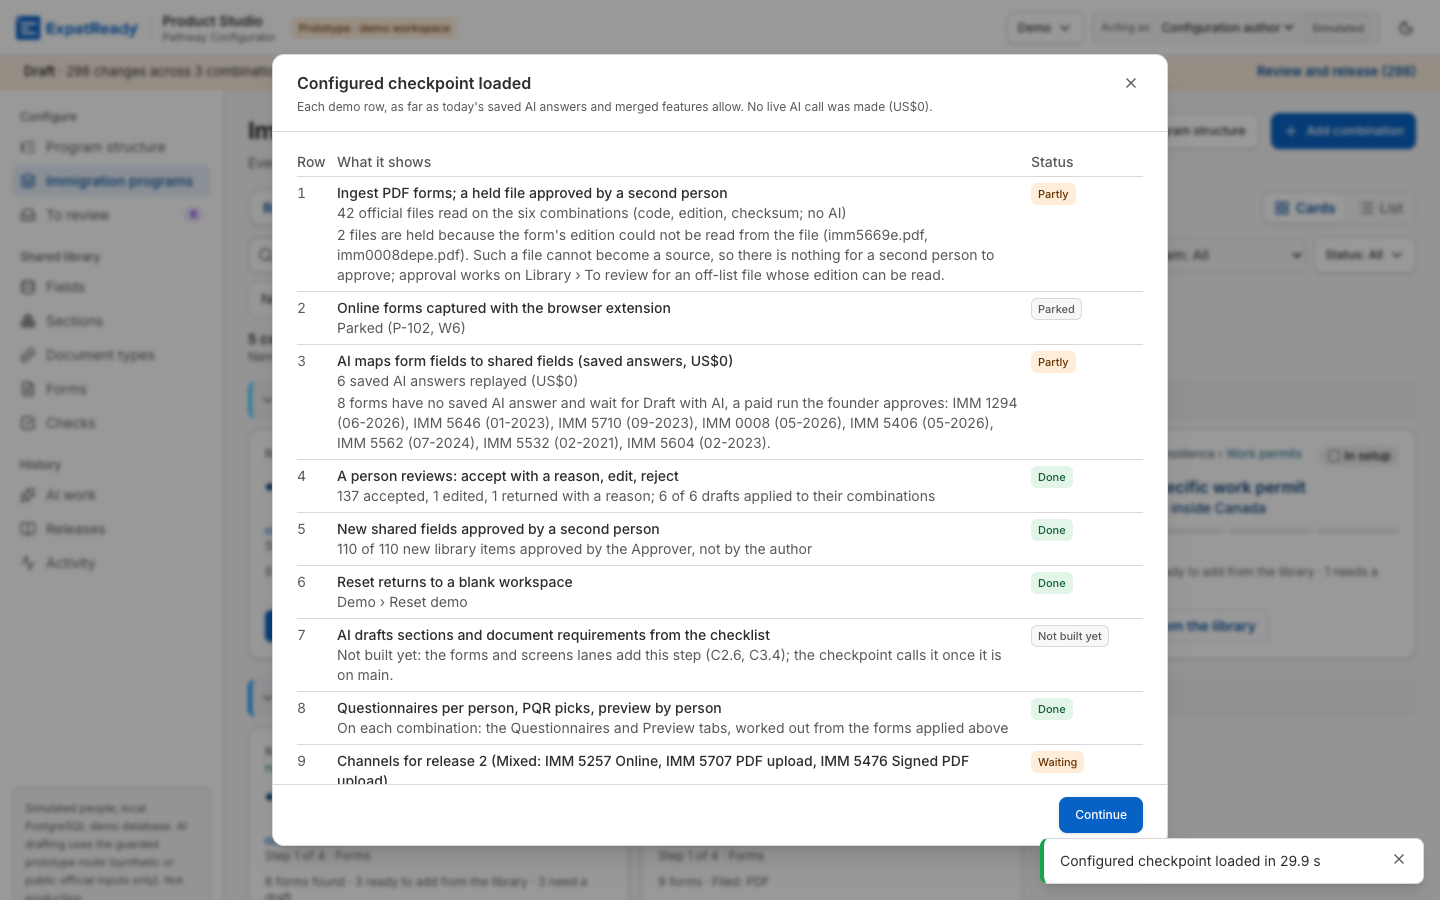
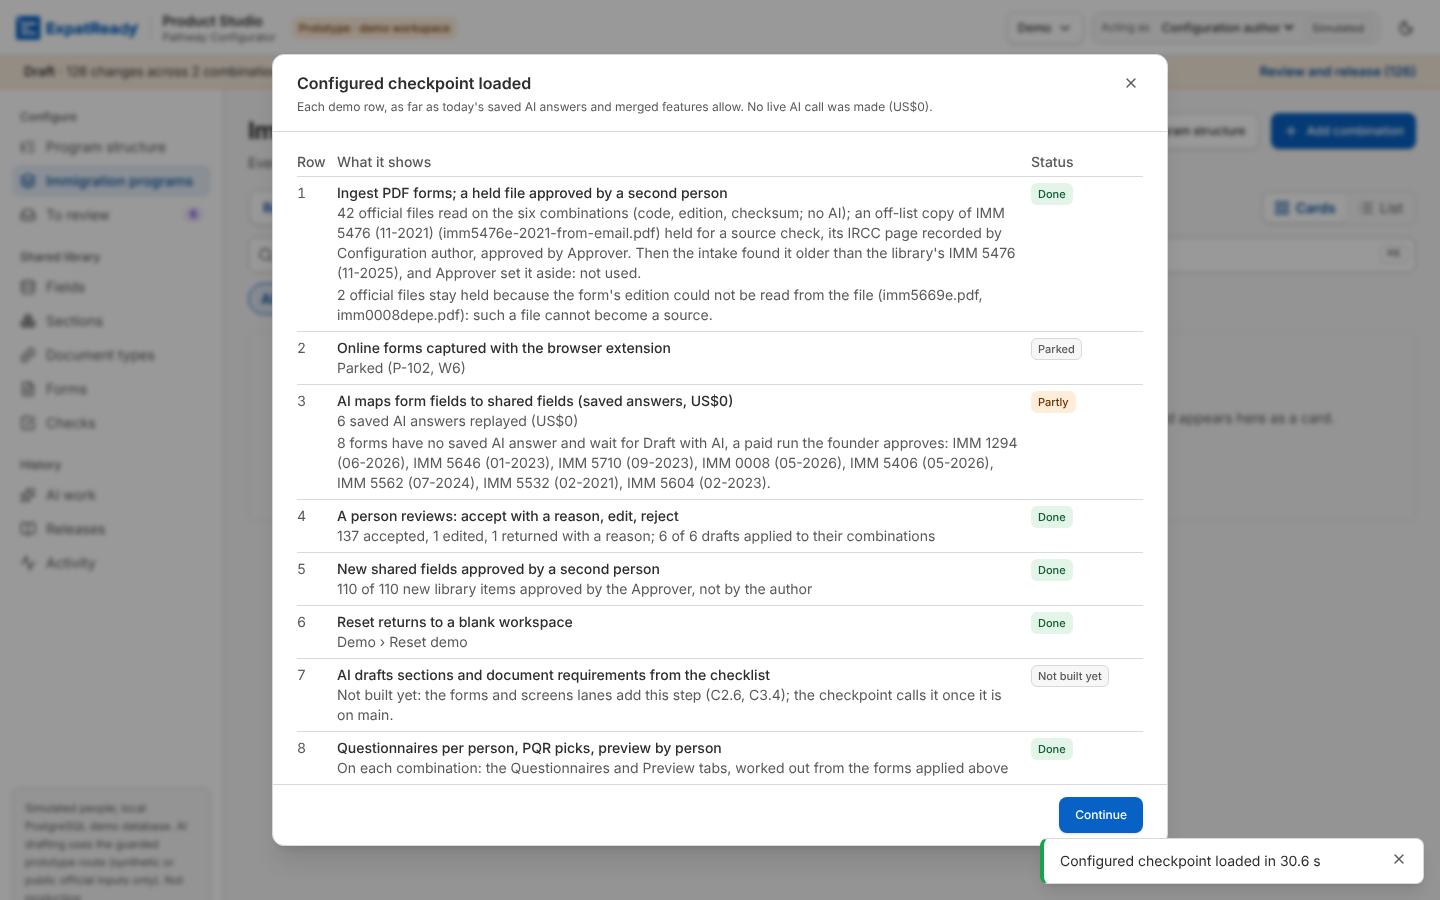
runtime F7: review Minors — the older 2021 copy is set aside by the Approver (nothing left on To review); m7 asserts the refusal's own title; row 1 screenshots re-shot
Claude-Session: https://claude.ai/code/session_01Ln6TiRsXsNGcEvBbFyHLf6

diff --git a/ai-workers/problem-1-pathway-setup-and-form-filling/prototype/studio/api/src/demo.ts b/ai-workers/problem-1-pathway-setup-and-form-filling/prototype/studio/api/src/demo.ts
@@ -244,7 +244,7 @@ export class Demo {
    *  Visitor visa (held for source verification), records the IRCC page it came from, and the approver, a second person,
    *  compares and approves it on the intake's own route (P-80). The library holds IMM 5476 (11-2025), not 11-2021, so the
    *  copy is not a duplicate (review-3 Major 1). Once approved it goes through the intake again: an edition older than the
-   *  library's is kept aside, never used, which the row says. */
+   *  library's is set aside by the Approver, never used, which the row says. */
   private async heldFileApproved(author: Actor, approver: Actor, workspaceId: string): Promise<{ ok: true; shows: string } | { ok: false; why: string }> {
     const vv = await this.db.combination.findFirst({ where: { workspaceId, combinationKey: "vv.single" }, select: { id: true } });
     if (!vv) return { ok: false, why: "The Visitor visa combination is not in the sample, so the off-list copy has nowhere to be uploaded." };
@@ -254,7 +254,14 @@ export class Demo {
     if (!item) return { ok: false, why: `The off-list copy of IMM 5476 (11-2021) was not held for a source check: ${up.message}` };
     await this.intake.recordPage(author, item.id, { irccPage: OFF_LIST_COPY.page });
     const done = await this.intake.decideHeld(approver, item.id, "approve", { note: "Sample: compared with the IRCC page", irccPage: OFF_LIST_COPY.page });
-    const after = done.result?.outcome === "older_edition_held" ? " Then the intake kept it aside as an edition older than the library's IMM 5476 (11-2025): not used." : done.result ? ` Then the intake: ${done.result.message}` : "";
+    // Review m2 (f7): the re-intake holds it as an older edition; the Approver sets it aside with that reason, so nothing is
+    // left waiting on To review (a second person may set aside an older edition: Intake.heldFile anyHold).
+    let after = done.result ? ` Then the intake: ${done.result.message}` : "";
+    if (done.result?.outcome === "older_edition_held") {
+      const older = await this.db.intakeItem.findFirst({ where: { workspaceId, sha256: item.sha256, status: "HELD", outcome: "older_edition_held" }, select: { id: true } });
+      if (older) await this.intake.decideHeld(approver, older.id, "reject", { note: "Sample: older than the library's IMM 5476 (11-2025), so it is not used." });
+      after = ` Then the intake found it older than the library's IMM 5476 (11-2025), and ${approver.name} set it aside: not used.`;
+    }
     return { ok: true, shows: `an off-list copy of ${item.editionLabel ?? "IMM 5476 (11-2021)"} (${OFF_LIST_COPY.name}) held for a source check, its IRCC page recorded by ${author.name}, approved by ${approver.name}.${after}` };
   }
 

diff --git a/ai-workers/problem-1-pathway-setup-and-form-filling/prototype/studio/tests/check_c10_1_configured.ts b/ai-workers/problem-1-pathway-setup-and-form-filling/prototype/studio/tests/check_c10_1_configured.ts
@@ -45,7 +45,7 @@ type Row = { row: string; title: string; status: string; shows: string; why: str
   ok("C10.1 row 1 / X9a pass: an off-list copy of IMM 5476 (11-2021) was held, its IRCC page recorded by the author, and approved by the Approver (user-B)", r("1").status === "done" && copy[1] === "user-A" && /canada\.ca\/.*imm5476\.html$/.test(copy[2] ?? "") && copy[3] === "IMM 5476 (11-2021)"
     && n(`select count(*) from approved_source where sha256 = '${copy[0]}' and uploaded_by = 'user-A' and approved_by = 'user-B'`) === 1 && /approved by Approver/.test(r("1").shows), { shows: r("1").shows, copy });
   ok("C10.1 row 1 / X9a fail-guard: the copy really is off-list (its checksum is on no approved list) and is a different file from the official 2021 one", !!copy[0] && !manifestHas(copy[0]), copy[0]);
-  ok("C10.1 row 1 / X9a fail: approved or not, an edition older than the library's is never used (kept aside, not in the library, not attached)", n(`select count(*) from form_edition where edition_label = 'IMM 5476 (11-2021)'`) === 0 && n(`select count(*) from intake_item where sha256 = '${copy[0]}' and status = 'HELD' and outcome = 'older_edition_held'`) === 1 && /kept it aside .* not used/.test(r("1").shows), r("1").shows);
+  ok("C10.1 row 1 / X9a fail: approved or not, an edition older than the library's is never used (set aside by the Approver, not in the library, nothing left on To review)", n(`select count(*) from form_edition where edition_label = 'IMM 5476 (11-2021)'`) === 0 && n(`select count(*) from intake_item where sha256 = '${copy[0]}' and status = 'HELD'`) === 0 && n(`select count(*) from intake_item where sha256 = '${copy[0]}' and outcome = 'refused' and reason like 'Set aside by Approver: %'`) === 1 && /set it aside: not used/.test(r("1").shows), r("1").shows);
   ok("C10.1 row 1 fail: a held file whose edition cannot be read stays held and is not approved (Break M4); the only approved file is the copy", n(`select count(*) from intake_item where status = 'HELD' and outcome = 'held'`) === Number(/(\d+) official files? stays?/.exec(r("1").why ?? "")?.[1] ?? 0) && n(`select count(*) from approved_source`) === 1, r("1").why);
   // Rows 3–4: saved answers replayed (US$0), decided by the author with a reason, one edit and one return kept visible.
   const jobs = n(`select count(*) from drafting_job where kind = 'field_map' and mode = 'REPLAY'`);

diff --git a/ai-workers/problem-1-pathway-setup-and-form-filling/prototype/studio/tests/check_x9b_ai_now_refused.ts b/ai-workers/problem-1-pathway-setup-and-form-filling/prototype/studio/tests/check_x9b_ai_now_refused.ts
@@ -44,7 +44,7 @@ const words = (r: { body: any }) => String(r.body?.detail ?? r.body?.message ?? 
   const plan = await call("POST", `/combinations/${vv}/people/propose/plan`, { mode: "live" });
   ok("X9b m7 fail: the fake launcher alone never opens AI now — its plan is refused (409, in words)", plan.status === 409 && /not approved/i.test(String(plan.body?.title ?? "") + words(plan)), { status: plan.status, title: plan.body?.title, detail: words(plan) });
   const run = await call("POST", `/combinations/${vv}/people/propose`, { mode: "live", planSha256: rules.body?.plan_sha256 });
-  ok("X9b m7 fail: starting AI now is refused too (409), and no run is started", run.status === 409 && !run.body?.runId, { status: run.status, title: run.body?.title });
+  ok("X9b m7 fail: starting AI now is refused too (409, \"AI now is not approved yet\"), and no run is started", run.status === 409 && /not approved/i.test(String(run.body?.title ?? "")) && !run.body?.runId, { status: run.status, title: run.body?.title });
   ok("X9b m7 fail-guard: nothing was launched, not even the fake launcher (no launch log)", !existsSync(join(VAR, "fake-launch.log")) || !readFileSync(join(VAR, "fake-launch.log"), "utf8").trim());
 
   console.log(`\n${pass}/${pass + fail} passed`);

diff --git a/ai-workers/problem-1-pathway-setup-and-form-filling/product/screens/W1-reset-and-sample/review-f7-x9.md b/ai-workers/problem-1-pathway-setup-and-form-filling/product/screens/W1-reset-and-sample/review-f7-x9.md
@@ -1,0 +1,95 @@
+# Review: runtime F7 (X9a, X9b) at 446a4d82
+
+Independent reviewer, 31 Oct, fresh context. Scope: `git diff origin/claude/reverent-mahavira-cef858..HEAD` (c4a7f412 + 446a4d82, 8 files). PR #113 (ebb18ce5) is approved already and was not re-reviewed.
+Copies: isolated, prefix `rv_`, ports 4431–4439. The :4400 demo was not touched. Cost: US$0. No `*_LIVE=approved` was set by hand. The only launcher setting was `STUDIO_FAKE_LAUNCHER` alone, from the m7 suite's own usage line.
+Journey report: `journey-test-reviewer-2026-10-31-f7.md` (score 9/10).
+
+## Verdict: Ship after fixes (**Verdict: Approve**, commit 446a4d821ed313707a9d75f2917a84749ca0dd1f). No open Blocker or Major. The Minors below are Should-fix follow-ups.
+
+## Suites run on this head
+| Suite | Result |
+|---|---|
+| check_c10_1_configured | 25/0 |
+| check_c3_11_signed_scan | 32/0 |
+| check_x9b_ai_now_refused | 6/0 |
+| check_c10_1_browser | 12/0 |
+| check_c3_11_browser | 21/0 |
+| check_forms_demo | 23/0 |
+| check_forms_channels | 105/0 |
+| check_s5_leadcheck | 49/0 |
+| check_preview_sets | 29/0 |
+| check_engine | 41/41 |
+
+* **Not run here:** a full `run-suites.sh`. The diff touches `demo.ts`, so `select-suites.mjs` selects ALL. I rely on the builder's 106-pass run for the rest. `check_qa91_*` fails on Linux because of `ps -E`; that is fixed elsewhere (4e373f4c).
+* **Mutations** (both restored with `git checkout`):
+  * Old `engine/sources.ts`: C3.11 drops to 30/32. Both X9b m6 checks fail, for example "not set × each_applicant × PRINCIPAL: tab [principal] vs case [child, principal, spouse]".
+  * `LIVE_APPROVED … || usesFakeLauncher()`: x9b drops to 4/6. The two plan checks fail. See issue m1 for the two that still pass.
+
+## Point 1: X9a held-file approval. Honest, and inside DEMO.md
+* **Same services as the screens.** `demo.ts:48-59` calls `Intake.intake`, then `recordPage` (author), then `decideHeld` (Approver), all through the real gates:
+  * the uploader cannot approve;
+  * the page must be recorded first;
+  * the page compared must be the page recorded;
+  * the claim and the approved list change in one transaction.
+* **Not a faked approval** in DEMO.md's sense. It is a second simulated person on the product's own path, as `forms-demo.ts:56-66` already does.
+* **The copy really is off the list.** It is the official bytes plus one comment line, so it has its own checksum (72975baa…). The fail-guard checks this against `manifest.json`.
+* **The IRCC page is the form's real canada.ca page** (manifest `page-imm5476.html`).
+* **Data after loading:**
+  * 1 `approved_source` row (uploaded by user-A, approved by user-B).
+  * 2 `intake_item` rows: DONE/held, then HELD/older_edition_held.
+  * 0 `form_edition` rows for 11-2021.
+  * 3 audit lines: recorded by the author, approved by the Approver, kept aside.
+* **Drafting guard's approved folder:** `recordApproval` writes `var/isolated-*/workspaces/demo/approved-sources/<sha>.{pdf,approval.json}`. That is per copy, and Reset removes it (checked).
+* **Other suites:** `forms_demo`, `c10_1_browser` and `forms_channels` are unaffected. Only `check_c10_1_configured` loads "configured".
+* **To review side effect:** see issue m2.
+
+## Point 2: K1. Verified
+* 72deaf61 (#118 Minor 2) is an ancestor of the base and changed `studio.ts` so the example is a caption.
+* Row 10 on my run reads `(for example "If you do not have an email address, provide either your…")`.
+* The fail-guard proves that raw-path, caption-less undecided fields exist in the load, so the caption is chosen and not luck.
+
+## Point 3: m6. One rule, and the right one
+* **One rule.** `formSigners` (`render.ts:100-112`) lists who a form is about by `subjectsFor(people, f.who)`. That is exactly how render's own form rows list them (`render.ts:157`): the condition decides whether a form applies, never who it is about.
+* **Consistent with the form rows.** Document requirements do narrow by subject kind, but a signed scan belongs to a form line, so following the form rows is the consistent choice.
+* **Render side:** the behaviour is the same as before (the same signer map, `none` gives nobody).
+* **Documents tab:** changes only when a form's condition has subjectKind PRINCIPAL, SPOUSE, DEPENDENT or CASE.
+* **Sample data:** no sample form is PDF upload + HAND_SCANNED (the PDF-upload default signature is NONE, `contracts/forms.ts:26`), so nothing visible changes.
+* **Reason wording:** principal_for_family on a principal-only form no longer says "(for the family members it is about)". That is more accurate, and it now matches the case side. parent_for_minor now says it when the principal signs a child's form, which was the old disagreement. Acceptable.
+
+## Point 4: m7. Proves the server for the plan route; the usage line works
+* **What it proves.** It starts a real fake-launcher-only server, then:
+  * refuses to run unless the fake launcher is on and every `*_LIVE` is off;
+  * checks that the database matches the server;
+  * asserts the live plan gets 409 "AI now is not approved yet" and that the rules plan says `live.approved: false`.
+* **Usage line under `run-suites.sh`.** I replayed its parser with `PREFIX=runtime`:
+  * name `runtime_runtime_m7`, port 18434;
+  * env `STUDIO_FAKE_LAUNCHER=…` is passed through;
+  * args become `18434 xr_studio_runtime_runtime_m7`;
+  * the suite's `VAR` (`isolated-runtime_runtime_m7`) equals isolated.sh's VARDIR.
+* **Process environment.** `/proc` works on Linux. `ps -E` works on the macOS CI runner. `psql` and `lsof` are used as in the other suites.
+* **Port.** 4434 is shared with `runtime_qa91b`. That is harmless because run-suites starts and stops copies one at a time.
+
+## Issues
+| # | Sev | Where | Failure scenario | Fix |
+|---|---|---|---|---|
+| m1 | Minor (Should) | `tests/check_x9b_ai_now_refused.ts:314-316` | The start check sends the **rules** plan's sha. With `LIVE_APPROVED` widened, `POST …/people/propose {mode:"live"}` still returns 409, but titled "Look at the plan again" (sha mismatch). So "starting AI now is refused too" and "nothing was launched" pass under the mutation and prove nothing about the start route. | Assert `run.body.title === "AI now is not approved yet"`. Better: send the sha a live plan would carry, so a widened gate really launches the fake and the launch-log guard bites. |
+| m2 | Minor (Should) | `api/src/demo.ts:57` row 1 words; To review | After the checkpoint, To review › All lists "New edition IMM 5476 (11-2021) … Waiting for others · The configuration author reviews it". The "configured" demo therefore carries one open to-do that row 1 does not mention (row 1 says only "kept it aside … not used"). The demo also shows the Approver approving a 2021 copy against a canada.ca page that offers 11-2025: a careful approver would set it aside. X9a names this file, so this is recorded, not re-scoped. | Row 1 says the older copy waits on To review for the author to set aside. Or the loader has the author set it aside with a reason through the same `decideHeld(…, "reject")` path, so To review is clean. |
+| m3 | Minor (Should) | `product/screens/W1-reset-and-sample/screenshots/c10-1-02-configured-result-{1440,1024}.png` (last committed 31a87498, 30 Oct) | The committed screenshots still show row 1 as "Partly … nothing for a second person to approve". `check_c10_1_browser` re-shoots them, but the new ones were not committed (D16: screenshots for every screen). | Commit the re-shot pair from a passing `check_c10_1_browser` run on this head. |
+| n1 | Note | `demo.ts:56`, `intake.ts:139-178` | `decideHeld` approve ignores `note`, so "Sample: compared with the IRCC page" is stored nowhere. The Sample label lives only in the PDF's comment line. The forms demo does the same. | Drop the dead note, or leave it. No action required. |
+
+## D1–D20
+Not scored one by one: this is a lane feature with no single concept.md (as in the #113 reviews).
+* **D1, D2, D16** are evidenced above.
+* **D10:** row words are plain.
+* **D13:** axe 0, no sideways scroll at 400, 1024 and 1440 px, keyboard path (journey report).
+* **D17 and D20:** simulated only.
+
+## What I could not check
+* A real screen reader. An intended user's unaided walk.
+* A full `run-suites.sh` on 446a4d82.
+* Visible-browser walking: I used headless Chrome through Playwright.
+* Whether a later row-17 build (the official 2021 upload) interacts with the approved 2021 copy. Row 17 is "not built yet".
+* `graph.mjs`: G1/G2/G4/G5/G6 are 0. The two G3 routes (`POST /combinations/:id/attachments`, `GET /attachments/:id/file`) are not touched here.
+* The builder's working tree has about 460 modified evidence/screenshot files from suite runs. They are outside the diff. My reruns also re-shot some of them. None are committed.
+
+**Verdict: Approve** (commit 446a4d821ed313707a9d75f2917a84749ca0dd1f). Should-fix follow-ups: m1, m2, m3.

diff --git a/ai-workers/problem-1-pathway-setup-and-form-filling/product/screens/W1-reset-and-sample/journey-test-reviewer-2026-10-31-f7.md b/ai-workers/problem-1-pathway-setup-and-form-filling/product/screens/W1-reset-and-sample/journey-test-reviewer-2026-10-31-f7.md
@@ -1,0 +1,60 @@
+# Journey test (reviewer): runtime F7 (X9a, X9b), commit 446a4d82, 31 Oct
+
+Reviewer agent, CHECK of 446a4d82. This is the one journey score for this check.
+* **Copy:** isolated `rv_c101` on :4431, fresh database, stopped at the end.
+* **Browser:** Chrome headless through Playwright, with axe WCAG 2.2 A/AA.
+* **Scripts:** `/tmp/rvjs/journey.cjs` and `j2b.cjs` (not kept).
+* **Runs:** the main walk ran once. The To review part ran 3 times, with the same result each time.
+* **Cost:** US$0. No `*_LIVE` switch.
+
+## Journeys
+1. **Configuration author, main path (keyboard only):** "Load the configured demo and see what each row shows."
+   * Tab reached Demo. Enter, then arrows, reached "Load the configured checkpoint…". Enter on the confirm button.
+   * The result came after 28.7 s, with a toast "loaded in 28.5 s".
+   * Row 1 is **Done**: "an off-list copy of IMM 5476 (11-2021) (imm5476e-2021-from-email.pdf) held for a source check, its IRCC page recorded by Configuration author, approved by Approver. Then the intake kept it aside as an edition older than the library's IMM 5476 (11-2025): not used." The 2 unreadable official files stay held, with the reason.
+   * Row 10's K1 example is a caption, not a PDF path.
+2. **Same result at 1024 and 400 px:** no sideways scroll (scrollWidth equals the width). axe on the dialog: 0.
+3. **Approver on To review:**
+   * Needs you shows 8: 6 form-field items and the 2 unreadable held files ("Reject the copy").
+   * All adds "New edition IMM 5476 (11-2021) … An older edition than the one in the library: it is not used unless a person decides otherwise. Waiting for others: The configuration author reviews it."
+   * axe 0. No sideways scroll at 400, 1024 and 1440 px.
+4. **Wrong path or role:** approving the older copy again by API, as the Approver or as the author, gives 409 "This file is not waiting for a source check." Nothing changed.
+5. **Screen boundary (the trail):** the Activity data has 3 lines: the author recorded the IRCC page; the Approver approved, naming the uploader; the author's re-intake was kept aside as an older edition.
+6. **Recovery:**
+   * Reset after the load removes the approved-sources folder of the copy.
+   * Loading twice is refused with "Reset first" (`check_c10_1_configured`).
+7. **AI now with the fake launcher alone (m7):** the live plan gets 409 "AI now is not approved yet", with the plain why ("waits for the founder's Go … Use rules only, or saved AI answers"). Rules only still plans.
+8. **Signed scan, Documents tab against the case (m6):** proven by the 180-case parity suite and by `check_c3_11_browser` 21/0. No sample form uses a hand-scanned PDF upload, so there was nothing new to walk on screen.
+
+## Data underneath
+* 1 `approved_source` row (user-A uploaded, user-B approved) and 2 intake rows (DONE/held, then HELD/older_edition_held).
+* 0 `form_edition` rows for 11-2021, so nothing is used. The spend ledger is unchanged (suite).
+* The server enforced the roles: the uploader cannot approve, and a decided file cannot be decided again.
+
+## Break-it pass
+* **Mutation, live gate widened:** the x9b plan checks fail (good). The start-route check still passes, on a sha-mismatch 409 (review m1).
+* **Mutation, old Documents-tab rule:** the parity and fail-guard checks fail (good).
+* **The leftover older copy:** the configured demo leaves one open To review item for the author (review m2).
+
+## Score
+| Criterion | Score | Evidence |
+|---|---|---|
+| Task completed | 1 | Row 1 Done through intake → page recorded → second-person approval; K1 caption verified |
+| Next step obvious | ½ | The leftover older copy on To review ("the configuration author reviews it") is not mentioned in row 1 (m2) |
+| Plain words | 1 | Row 1 and the refusals are in words, with no paths or codes. The file names are what a person uploaded |
+| Feedback and state | 1 | Toast with time, a status chip per row, and To review states |
+| Correct data | 1 | One approval, the right people, the older edition never used, Reset cleans the folder |
+| Error recovery | 1 | 409s in words; double load refused |
+| Accessibility and sizes | 1 | Keyboard-only load; axe 0 on the dialog and To review; 400, 1024 and 1440 px fit |
+| Speed | 1 | The held-file step takes 0.7 s of a 28.5 s load (no budget for the load; the time is mostly intake and form read, unchanged) |
+| Visual quality | 1 | Team dialog and chips unchanged (screenshot j1-result-1440) |
+| Trust and sources | ½ | The audit names who and which page. The "Sample" approval note is dropped (n1), and the committed result screenshots are stale (m3) |
+| **Total** | **9 / 10** | Pass (8 or more, no 0) |
+
+**To raise it:**
+* m2: row 1 words, or a set-aside by the author in the load. This gives Next step obvious 1.
+* m3: commit the re-shot screenshots. This gives Trust and sources 1.
+
+## Could not test
+* A real screen reader. An intended user's unaided walk: D17 and D20 stay with the founder.
+* A visible (headed) browser.
